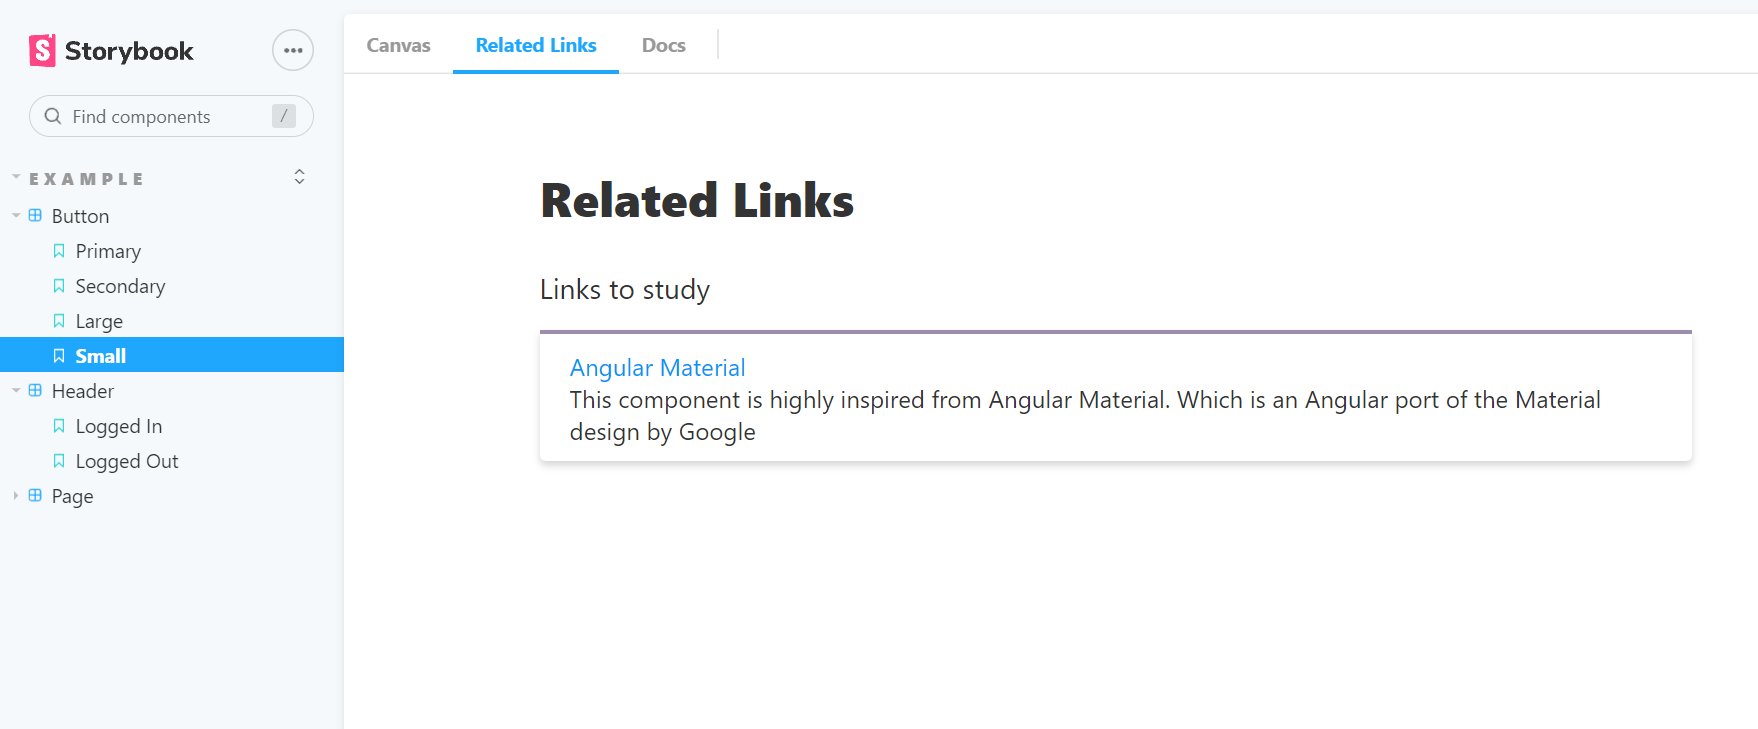
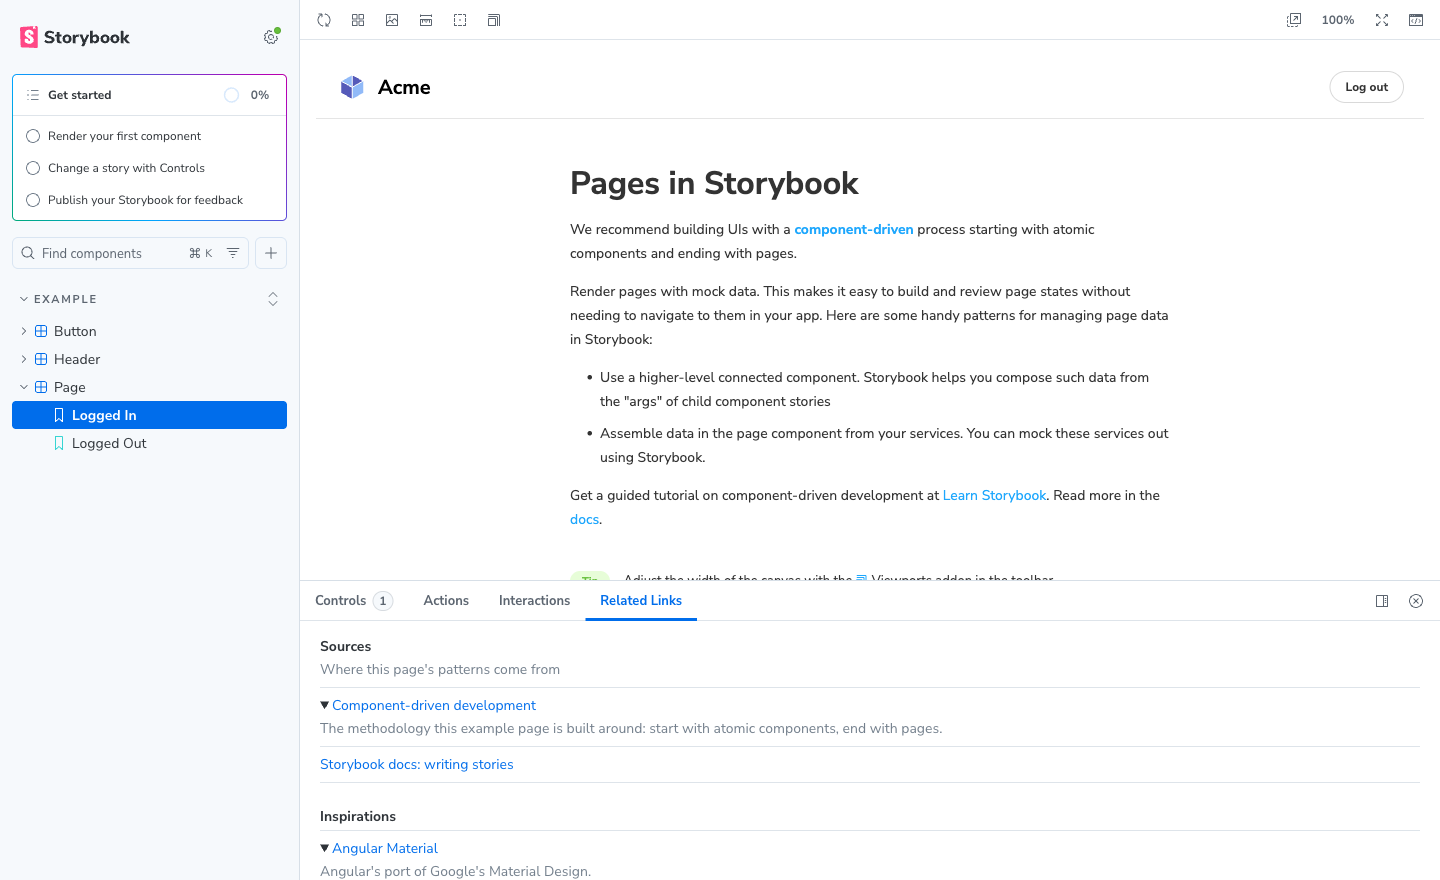
docs: rewrite the README for Storybook 10 and release v1.0.0
The README still documented the addon-kit template: deleted files
(src/Tool.js, src/withGlobals.js), yarn commands, and the auto release flow
with its NPM_TOKEN setup.

Rewrite it around what the addon actually does: compatibility table, install,
usage, a parameter reference, CSF Factories setup, an upgrade note explaining
where the tab went, and the manual release steps. Screenshot regenerated
against Storybook 10.6 showing the panel, and the demo story's placeholder
links replaced with real ones.

diff --git a/stories/Page.stories.jsx b/stories/Page.stories.jsx
@@ -9,24 +9,17 @@ export default {
       sections: [
         {
           title: "Sources",
-          description: 'These are picked with love',
+          description: "Where this page's patterns come from",
           links: [
             {
-              text: "Angular Material",
-              url: "https://material.angular.io",
-              description: "Imported from Angular Material",
+              text: "Component-driven development",
+              url: "https://www.componentdriven.org",
+              description:
+                "The methodology this example page is built around: start with atomic components, end with pages.",
             },
             {
-              text: "Angular Material",
-              url: "https://material.angular.io",
-            },
-            {
-              text: "Angular Material",
-              url: "https://material.angular.io",
-            },
-            {
-              text: "Angular Material",
-              url: "https://material.angular.io",
+              text: "Storybook docs: writing stories",
+              url: "https://storybook.js.org/docs/writing-stories",
             },
           ],
         },
@@ -36,19 +29,11 @@ export default {
             {
               text: "Angular Material",
               url: "https://material.angular.io",
-              description: "Imported from Angular Material",
+              description: "Angular's port of Google's Material Design.",
             },
             {
-              text: "Angular Material",
-              url: "https://material.angular.io",
-            },
-            {
-              text: "Angular Material",
-              url: "https://material.angular.io",
-            },
-            {
-              text: "Angular Material",
-              url: "https://material.angular.io",
+              text: "Chromatic",
+              url: "https://www.chromatic.com",
             },
           ],
         },

diff --git a/README.md b/README.md
@@ -1,118 +1,154 @@
 # Storybook Addon Related Links
-Add related links to your stories. Useful for adding external links to the stories to highlight resources to study, inspirations, sources etc.
 
+Add related links to your stories. Useful for pointing at the resources behind a component: design sources, inspirations, docs to study, tickets, anything worth one click.
+
+Links show up in a **Related Links** panel next to Controls and Actions, per story.
+
+![Demo](./assets/demo.png)
+
+## Compatibility
+
+| Addon  | Storybook  |
+| ------ | ---------- |
+| 1.x    | 10.x       |
+| 0.0.x  | 6.5.x      |
+
+Storybook 10 is ESM-only, so this addon ships ESM-only from 1.0.0. If you are still on Storybook 6.5, stay on `0.0.4`.
+
+## Install
+
+```bash
+npm install --save-dev storybook-addon-related-links
+```
+
+Register it in `.storybook/main.ts`:
+
+```ts
+import type { StorybookConfig } from "@storybook/react-vite";
+
+const config: StorybookConfig = {
+  stories: ["../src/**/*.stories.@(js|jsx|ts|tsx)"],
+  addons: ["storybook-addon-related-links"],
+  framework: { name: "@storybook/react-vite", options: {} },
+};
+
+export default config;
+```
+
+The addon reads parameters only, so it works with any renderer — React, Angular, Vue, Svelte, Web Components, HTML.
 
 ## Usage
-You can add related links by adding the parameters to your stories as follows:
-```javascript
-MyStory.parameters = {
-  relatedLinks: {
-    sections: [
-      {
-        title: "Links to study",
-        links: [
-          {
-            text: "Angular Material",
-            url: "https://material.angular.io",
-            description: "This component is highly inspired from Angular Material. Which is an Angular port of the Material design by Google",
-          },
-        ],
-      },
-    ],
+
+Add a `relatedLinks` parameter to a story, a component, or your whole preview:
+
+```js
+export const Primary = {
+  parameters: {
+    relatedLinks: {
+      sections: [
+        {
+          title: "Links to study",
+          description: "Read these before changing the component",
+          links: [
+            {
+              text: "Angular Material",
+              url: "https://material.angular.io",
+              description:
+                "This component is heavily inspired by Angular Material, Google's Material Design port for Angular.",
+            },
+            {
+              text: "Storybook docs: args",
+              url: "https://storybook.js.org/docs/writing-stories/args",
+            },
+          ],
+        },
+      ],
+    },
   },
-}
+};
 ```
 
-## Demo
-![Demo](./assets//demo.png)
+Links with a `description` render as a collapsible row; links without one render as a plain link.
 
-### Development scripts
+Put the parameter on the default export to cover every story of a component, or in `.storybook/preview.ts` to cover every story in the project. Storybook merges parameters most-specific-first, and arrays are replaced rather than concatenated, so a story-level `sections` array wins over a component-level one.
 
-- `yarn start` runs babel in watch mode and starts Storybook
-- `yarn build` build and package your addon code
+### Parameters
 
-### Switch from TypeScript to JavaScript
+`relatedLinks`
 
-Don't want to use TypeScript? We offer a handy eject command: `yarn eject-ts`
+| Property   | Type              | Required | Description                    |
+| ---------- | ----------------- | -------- | ------------------------------ |
+| `sections` | `Section[]`       | yes      | Groups of links, rendered in order |
 
-This will convert all code to JS. It is a destructive process, so we recommended running this before you start writing any code.
+`Section`
 
-## What's included?
+| Property      | Type      | Required | Description                                   |
+| ------------- | --------- | -------- | --------------------------------------------- |
+| `title`       | `string`  | no       | Heading for the group                         |
+| `description` | `string`  | no       | Short line under the heading                  |
+| `links`       | `Link[]`  | yes      | The links in this group                       |
 
-The addon code lives in `src`. It demonstrates all core addon related concepts. The three [UI paradigms](https://storybook.js.org/docs/react/addons/addon-types#ui-based-addons)
+`Link`
 
-- `src/Tool.js`
-- `src/Panel.js`
-- `src/Tab.js`
+| Property      | Type      | Required | Description                                         |
+| ------------- | --------- | -------- | --------------------------------------------------- |
+| `text`        | `string`  | yes      | Link label                                          |
+| `url`         | `string`  | yes      | Destination, opened in a new tab                    |
+| `description` | `string`  | no       | Longer explanation; makes the row collapsible       |
 
-Which, along with the addon itself, are registered in `src/preset/manager.js`.
+TypeScript users can import the types:
 
-Managing State and interacting with a story:
+```ts
+import type {
+  RelatedLink,
+  RelatedLinksSection,
+  RelatedLinksParameters,
+} from "storybook-addon-related-links";
+```
 
-- `src/withGlobals.js` & `src/Tool.js` demonstrates how to use `useGlobals` to manage global state and modify the contents of a Story.
-- `src/withRoundTrip.js` & `src/Panel.js` demonstrates two-way communication using channels.
-- `src/Tab.js` demonstrates how to use `useParameter` to access the current story's parameters.
+### CSF Factories
 
-Your addon might use one or more of these patterns. Feel free to delete unused code. Update `src/preset/manager.js` and `src/preset/preview.js` accordingly.
+On CSF Factories (CSF Next), add the addon to your preview to get a typed `relatedLinks` parameter:
 
-Lastly, configure you addon name in `src/constants.js`.
+```ts
+// .storybook/preview.ts
+import { definePreview } from "@storybook/react-vite";
+import relatedLinks from "storybook-addon-related-links/preview";
 
-### Metadata
+export default definePreview({
+  addons: [relatedLinks()],
+});
+```
 
-Storybook addons are listed in the [catalog](https://storybook.js.org/addons) and distributed via npm. The catalog is populated by querying npm's registry for Storybook-specific metadata in `package.json`. This project has been configured with sample data. Learn more about available options in the [Addon metadata docs](https://storybook.js.org/docs/react/addons/addon-catalog#addon-metadata).
+## Upgrading from 0.0.x
 
-## Release Management
+Storybook 11 removes the `TAB` addon type, so the links moved out of their own tab and into the addon panel. The `relatedLinks` parameter is unchanged — no story edits needed. What changed:
 
-### Setup
+- peer dependency is now `storybook@^10`, replacing the `@storybook/*` peers
+- the `/related-links/:storyId` route is gone; open the **Related Links** panel instead
+- the package is ESM-only
 
-This project is configured to use [auto](https://github.com/intuit/auto) for release management. It generates a changelog and pushes it to both GitHub and npm. Therefore, you need to configure access to both:
-
-- [`NPM_TOKEN`](https://docs.npmjs.com/creating-and-viewing-access-tokens#creating-access-tokens) Create a token with both _Read and Publish_ permissions.
-- [`GH_TOKEN`](https://github.com/settings/tokens) Create a token with the `repo` scope.
-
-Then open your `package.json` and edit the following fields:
-
-- `name`
-- `author`
-- `repository`
-
-#### Local
-
-To use `auto` locally create a `.env` file at the root of your project and add your tokens to it:
+## Development
 
 ```bash
-GH_TOKEN=<value you just got from GitHub>
-NPM_TOKEN=<value you just got from npm>
+npm install
+npm start          # builds in watch mode and runs the local Storybook
+npm run check      # type check
+npm run build      # build the addon
 ```
 
-Lastly, **create labels on GitHub**. You’ll use these labels in the future when making changes to the package.
+The example stories in `stories/` double as the manual test bed: `Example/Page` shows multiple sections, `Example/Button → Small` shows a collapsible description, and `Example/Header` shows the empty state.
+
+## Releasing
+
+Releases are cut by hand from a clean `main`:
 
 ```bash
-npx auto create-labels
+npm version <major|minor|patch>
+npm publish
+git push --follow-tags
+gh release create "v$(node -p "require('./package.json').version")" --generate-notes
 ```
-
-If you check on GitHub, you’ll now see a set of labels that `auto` would like you to use. Use these to tag future pull requests.
-
-#### GitHub Actions
-
-This template comes with GitHub actions already set up to publish your addon anytime someone pushes to your repository.
-
-Go to `Settings > Secrets`, click `New repository secret`, and add your `NPM_TOKEN`.
-
-### Creating a release
-
-To create a release locally you can run the following command, otherwise the GitHub action will make the release for you.
-
-```sh
-yarn release
-```
-
-That will:
-
-- Build and package the addon code
-- Bump the version
-- Push a release to GitHub and npm
-- Push a changelog to GitHub
 
 ## Connect with me
 

diff --git a/CHANGELOG.md b/CHANGELOG.md
@@ -1,3 +1,27 @@
+# v1.0.0
+
+#### 💥 Breaking changes
+
+- Requires `storybook@^10`. The five `@storybook/*` peer dependencies are gone, and with them the React 16/17-only peer range ([#2](https://github.com/AhsanAyaz/storybook-related-links/issues/2), [#3](https://github.com/AhsanAyaz/storybook-related-links/issues/3)).
+- Related links render in the **addon panel** instead of their own tab. Storybook 11 removes the `TAB` addon type, so the `/related-links/:storyId` route is gone. The `relatedLinks` parameter is unchanged.
+- The package is ESM-only, as Storybook 10 requires.
+
+#### 🚀 Enhancements
+
+- New `storybook-addon-related-links/preview` entry exporting `definePreviewAddon`, so CSF Factories users get a typed `relatedLinks` parameter.
+- `RelatedLink`, `RelatedLinksSection` and `RelatedLinksParameters` are exported for TypeScript users.
+- Empty state now explains how to add links instead of rendering a blank panel.
+
+#### 🏠 Internal
+
+- Build moved from Babel to tsup; releases are cut manually and CI only verifies (type check + builds).
+
+#### Authors: 1
+
+- Muhammad Ahsan Ayaz (=)
+
+---
+
 # v0.0.4 (Fri Aug 26 2022)
 
 #### ⚠ Pushed to `main`
